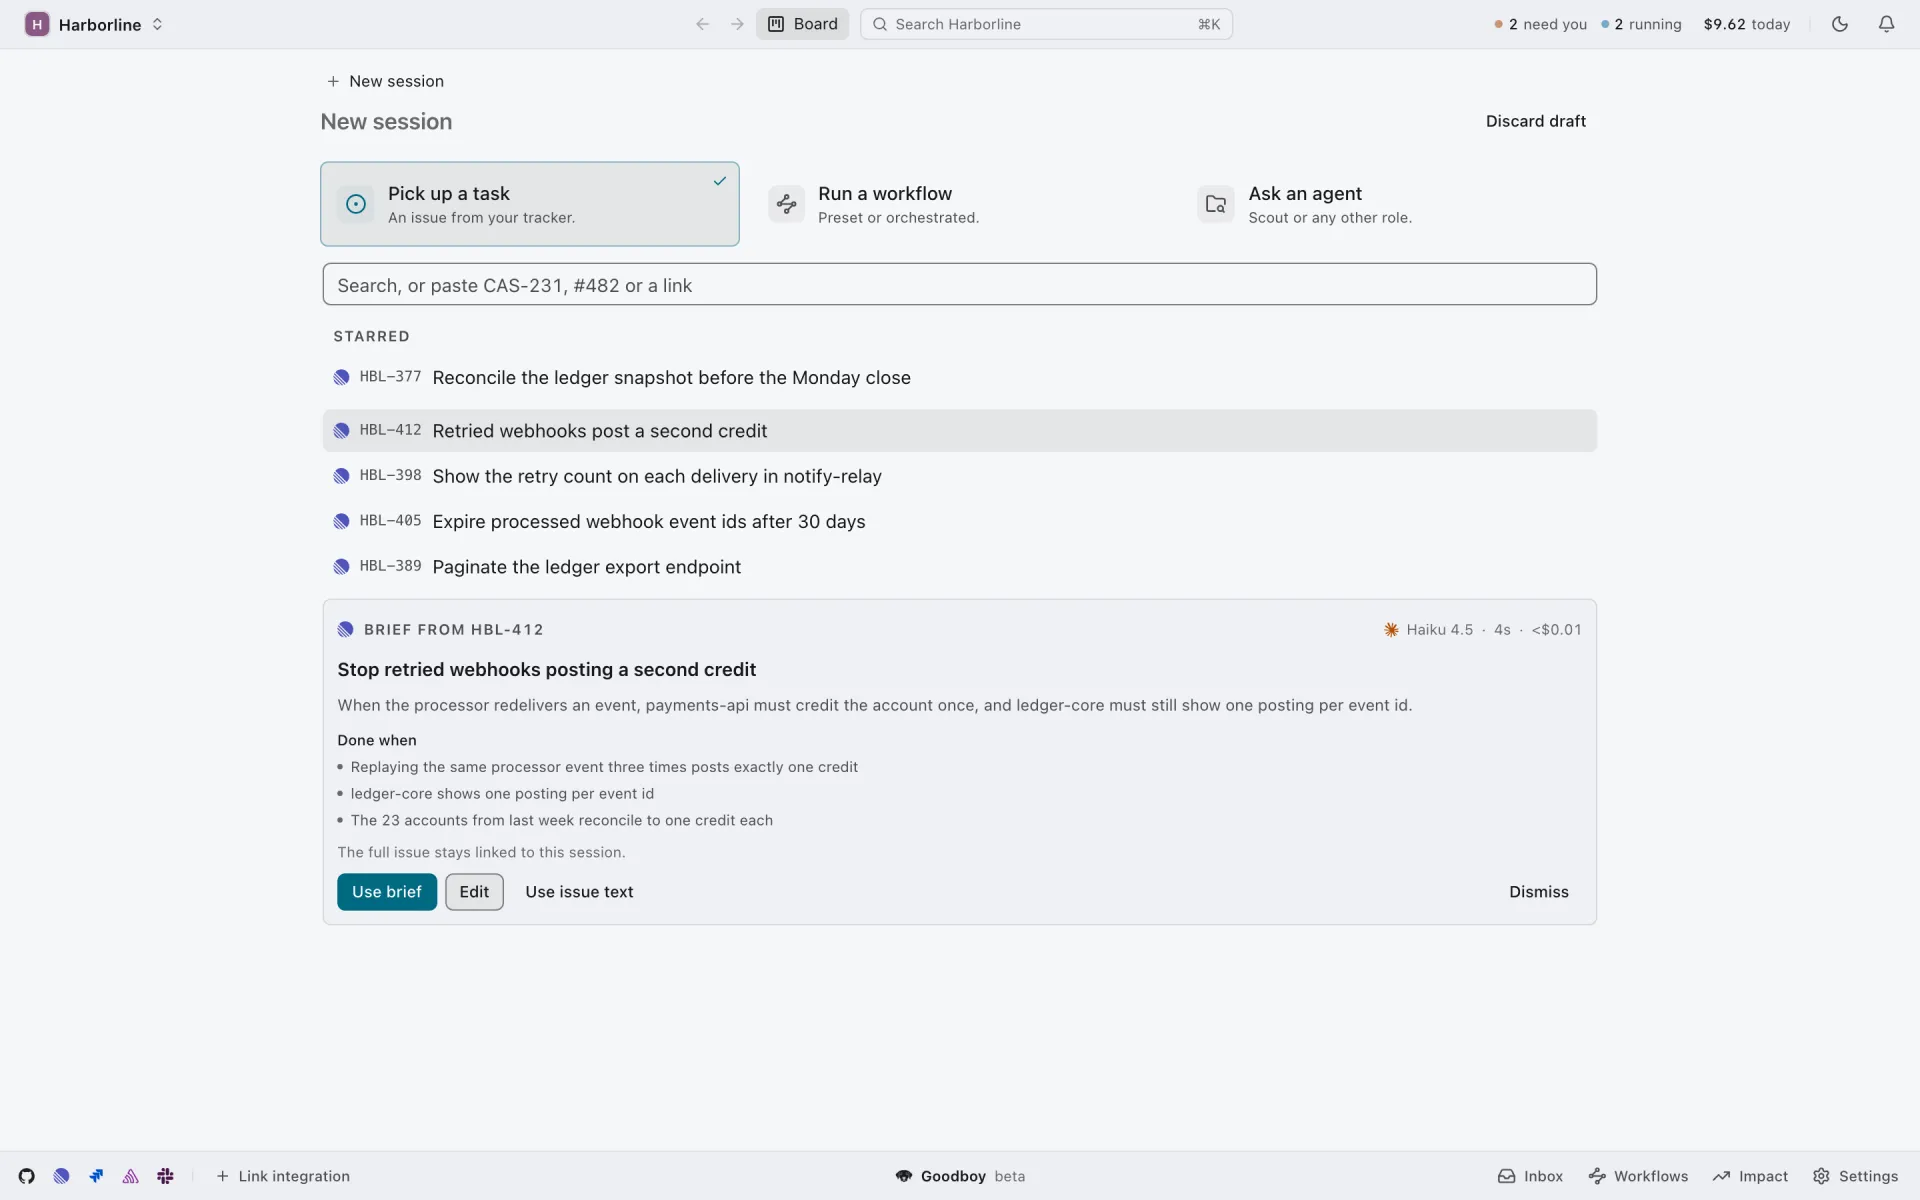
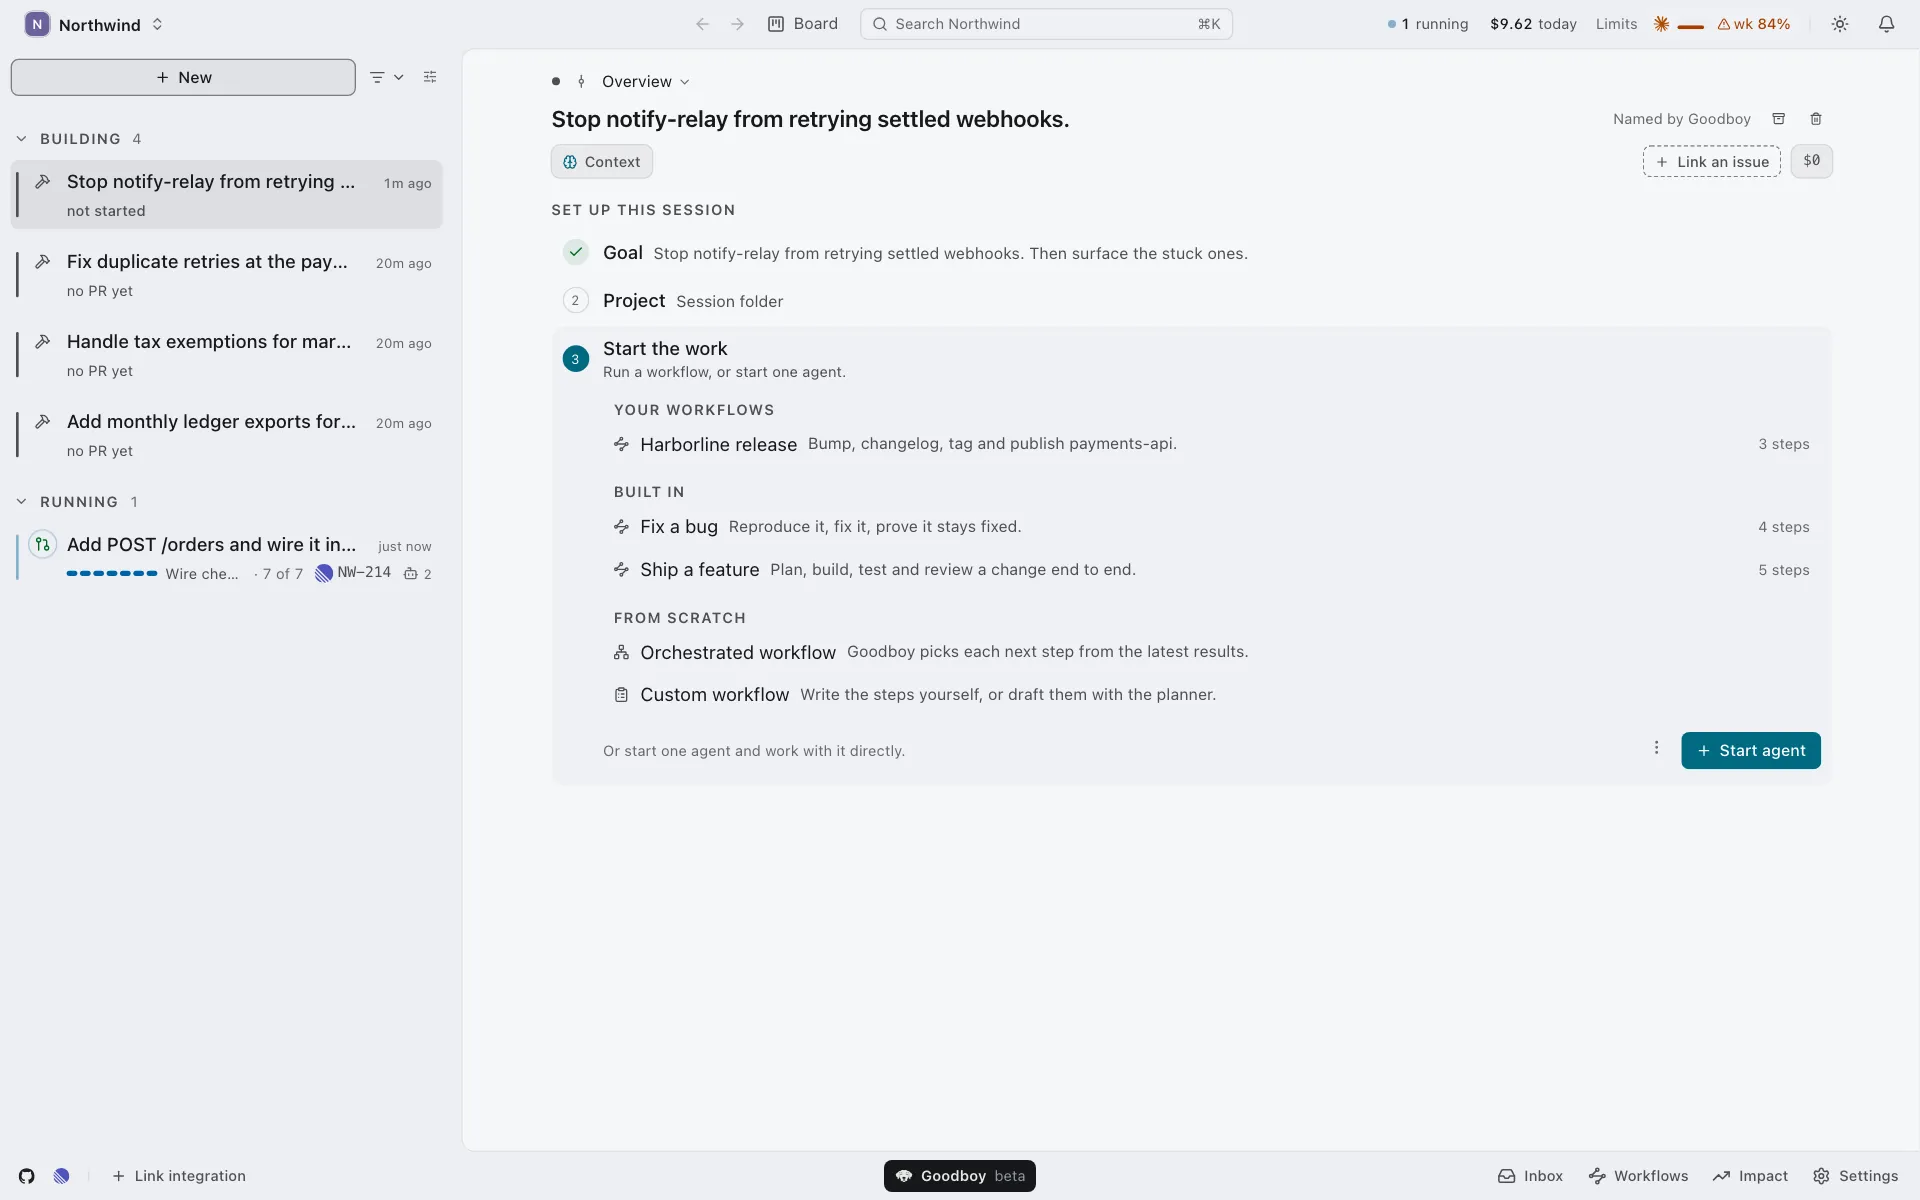
docs(repo): align public pages and the guide with the blank start

diff --git a/apps/desktop/src/features/settings/components/GuideStudio/guideChapters.ts b/apps/desktop/src/features/settings/components/GuideStudio/guideChapters.ts
@@ -120,21 +120,25 @@ export const GUIDE_CHAPTERS: ReadonlyArray<GuideChapter> = [
   {
     id: 'kickoff',
     group: 'task',
-    title: 'New session and kickoff',
+    title: 'New session and setup',
     concept: 'sessions',
-    lead: 'A session is one task: a goal, the agents working on it, and a branch for each project they edit. It starts as a draft and becomes a session only when you press Start.',
+    lead: 'A session is one task: a goal, the agents working on it, and a branch for each project they edit. New opens a blank session on its Overview right away, with nothing to fill in first.',
     points: [
       {
-        term: 'Pick up a task',
-        desc: 'Choose an issue from your tools. Goodboy drafts a short title and goal linked back to it, and you keep or edit them.',
+        term: 'Set up this session',
+        desc: 'The Overview walks you through Goal, Project and Start the work, one step at a time. Skip any step and reopen it later. Press New again before touching it and you land back on the same session.',
       },
       {
         term: 'Run a workflow',
-        desc: 'Write a goal, pick a built-in or saved workflow, and run it from the first screen.',
+        desc: 'Start the work lists your workflows, the built-in ones, and an orchestrated or custom workflow. Picking one opens the workflow form, filled in with your goal.',
       },
       {
-        term: 'Ask an agent',
-        desc: 'Ask a question about the code. Scout is the default and maps an unfamiliar repo before you plan.',
+        term: 'Start an agent',
+        desc: 'Or start one agent and work with it directly. Scout is the default and maps an unfamiliar repo before you plan.',
+      },
+      {
+        term: 'Pick up a task',
+        desc: 'Launch a session from an issue in the Inbox. Goodboy drafts a short title and goal linked back to it, and you keep or edit them.',
       },
       {
         term: 'Named for you',

diff --git a/apps/desktop/src/features/settings/components/GuideStudio/index.test.tsx b/apps/desktop/src/features/settings/components/GuideStudio/index.test.tsx
@@ -88,12 +88,12 @@ describe('GuideStudio', () => {
     expect(useAppStore.getState().appStudio).toBeNull();
   });
 
-  it('asks for a new session from the kickoff chapter', () => {
+  it('asks for a new session from the setup chapter', () => {
     const listener = vi.fn();
     window.addEventListener('goodboy:new-session', listener);
     render(<GuideStudio onClose={vi.fn()} />);
 
-    const kickoff = screen.getByRole('region', { name: 'New session and kickoff' });
+    const kickoff = screen.getByRole('region', { name: 'New session and setup' });
     fireEvent.click(within(kickoff).getByRole('button', { name: 'Start a new session' }));
 
     expect(listener).toHaveBeenCalledTimes(1);

diff --git a/website/src/sections/HowItWorks.tsx b/website/src/sections/HowItWorks.tsx
@@ -19,6 +19,10 @@ export const HowItWorks = () => (
         why.
       </p>
       <p>
+        Press New and the session opens blank on its overview. Set a goal and a project, then pick
+        your own workflow, a built-in one, or an orchestrated or custom one.
+      </p>
+      <p>
         Heading somewhere you did not mean? Leave a hint for the next decision, or have it read
         right away.
       </p>

diff --git a/README.md b/README.md
@@ -35,7 +35,7 @@ The idea is small. A task keeps its own goal, decisions and summary, so the agen
 
 You pick an issue from Linear. Goodboy drafts a title and a goal from it, and the task lands on the **board** as a session. From there the board moves it for you, between **building**, **running**, **needs you** and **in review**, with done work folded to the side, as the work changes. Each card shows its pull request and what it has cost so far.
 
-Tasks come from the tools you connect: [GitHub, GitLab, Bitbucket, Jira, Linear, Sentry and Slack](https://github.com/akhayam99/goodboy/blob/main/FEATURES.md#supported-tools).
+Tasks come from the tools you connect: [GitHub, GitLab, Bitbucket, Jira, Linear, Sentry and Slack](https://github.com/akhayam99/goodboy/blob/main/FEATURES.md#supported-tools). Or press **New** for a [blank session](https://github.com/akhayam99/goodboy/blob/main/FEATURES.md#start-blank-set-it-up-step-by-step): its overview asks for a goal, a project and how to start the work, one step at a time.
 
 [See how it works →](https://github.com/akhayam99/goodboy/blob/main/FEATURES.md#the-board)
 
@@ -48,7 +48,7 @@ Tasks come from the tools you connect: [GitHub, GitLab, Bitbucket, Jira, Linear,
 
 ## Workflows
 
-A **workflow** splits the task into steps, and each step is a fresh agent with a short brief. In **Orchestrated** mode a model picks the next step after each one finishes and writes down why.
+A **workflow** splits the task into steps, and each step is a fresh agent with a short brief. In **Orchestrated** mode a model picks the next step after each one finishes and writes down why. A new session lists your own workflows, the built-in ones, and an orchestrated or custom one, and each opens the same form, filled in with your goal.
 
 That is also where the money goes. In the run below, a scout read the posting path for two cents. The planner spent $1.28, because that is the step that has to think. Want to steer? Queue a hint for the next decision, or have the orchestrator read it now.
 

diff --git a/FEATURES.md b/FEATURES.md
@@ -86,7 +86,7 @@ Tell agents once who you are and how you like to work, in four short parts. **Se
 
 <picture>
   <source media="(prefers-color-scheme: dark)" srcset="./docs/readme/s02-kickoff-dark.webp">
-  <img src="./docs/readme/s02-kickoff-light.webp" alt="Pick up a task with HBL-412 selected and a drafted brief">
+  <img src="./docs/readme/s02-kickoff-light.webp" alt="A blank session's overview with the goal set and Start the work listing your workflows, built-in ones, and an orchestrated or custom workflow">
 </picture>
 
 ### Start blank, set it up step by step
